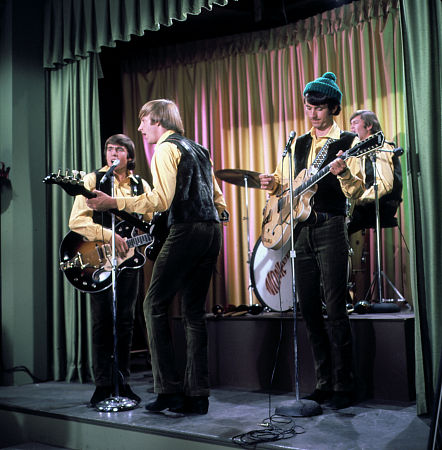
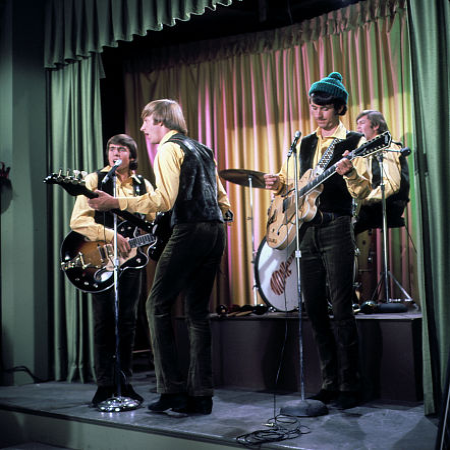
filled carousel with 9 correct images, all cropped  to 1:1 ratio

diff --git a/media.html b/media.html
@@ -30,13 +30,31 @@
                 <div id="carouselControls" class="carousel slide" data-ride="carousel">
                   <div class="carousel-inner">
                     <div class="carousel-item active">
-                      <img src="/assets/carouselimages/0430_monkees_cog-1000x547.jpg" class="d-block w-100" alt="">
-                    </div>
-                    <div class="carousel-item">
                       <img src="/assets/carouselimages/album.jpg" class="d-block w-100" alt="">
                     </div>
                     <div class="carousel-item">
+                      <img src="/assets/carouselimages/md.jpg" class="d-block w-100" alt="">
+                    </div>
+                    <div class="carousel-item">
                       <img src="/assets/carouselimages/album2.jpg" class="d-block w-100" alt="">
+                    </div>
+                    <div class="carousel-item">
+                      <img src="/assets/carouselimages/cover.jpg" class="d-block w-100" alt="">
+                    </div>
+                    <div class="carousel-item">
+                      <img src="/assets/carouselimages/dj.jpg" class="d-block w-100" alt="">
+                    </div>
+                    <div class="carousel-item">
+                      <img src="/assets/carouselimages/band.jpg" class="d-block w-100" alt="">
+                    </div>
+                    <div class="carousel-item">
+                      <img src="/assets/carouselimages/mn.jpg" class="d-block w-100" alt="">
+                    </div>
+                    <div class="carousel-item">
+                      <img src="/assets/carouselimages/monkeesslim.jpg" class="d-block w-100" alt="">
+                    </div>
+                    <div class="carousel-item">
+                      <img src="/assets/carouselimages/pt.jpg" class="d-block w-100" alt="">
                     </div>
                   </div>
                   <a class="carousel-control-prev" href="#carouselControls" role="button" data-slide="prev">
